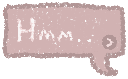
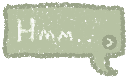
chat edit

diff --git a/p4_final/style.css b/p4_final/style.css
@@ -90,7 +90,7 @@ a {
   float: right;
   padding: 20px;
   min-width: 100px;
-  background: #c0c0c0;
+  background: #a6af95;
   border-radius: .4em;
   margin-top: 100px;
 
@@ -101,7 +101,7 @@ a {
   float: right;
   padding: 20px;
   min-width: 100px;
-  background: #c0c0c0;
+  background: #a6af95;
   border-radius: .4em;
   margin-top: 10px;
 
@@ -112,7 +112,7 @@ a {
   float: left;
   padding: 20px;
   min-width: 100px;
-  background: #c0c0c0;
+  background: #c1bfbf;
   border-radius: .4em;
   margin-top: 100px;
 
@@ -123,7 +123,7 @@ a {
   float: left;
   padding: 20px;
   min-width: 100px;
-  background: #c0c0c0;
+  background: #c1bfbf;
   border-radius: .4em;
   margin-top: 10px;
 

diff --git a/p4_final/index.html b/p4_final/index.html
@@ -64,7 +64,7 @@
     </div>
     <div class="event">
       <img src="img/demisit.png" data-aos="fade" data-aos-duration="2500" data-aos-offset="400">
-      <a href="tablet.html"><img src="img/bubble.png" data-aos="zoom-in" data-aos-duration="1500" data-aos-delay="2000" style="
+      <a href="tablet.html"><img src="img/bubble.gif" data-aos="zoom-in" data-aos-duration="1500" data-aos-delay="2000" style="
                   position: absolute;
                   margin-top: -50%;
                   margin-left: 32%;
